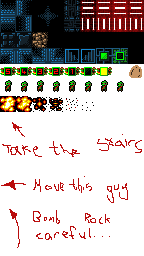
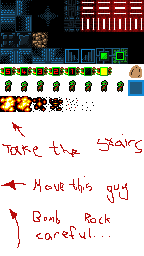
Add basic (buggy) pressure plate

Changed region(s): [[0.8889, 0.3125, 1.0, 0.375]]

diff --git a/src/tile.py b/src/tile.py
@@ -61,10 +61,10 @@ class Stateful(Tile):
        @self.images   = an array of pygame surfaces
        @self.triggers = The numeric id of the Triggerable
                         if there is one to be triggered"""
-    def __init__(self, x, y, width, height, solid, destructable, state, image, triggers=0):
+    def __init__(self, x, y, width, height, solid, destructable, state, image, images = graphics.sprites['switch']['sprites'], triggers=0):
         Tile.__init__(self, x, y, width, height, solid, destructable, image)
         self.state = state
-        self.images = graphics.sprites['switch']['sprites']
+        self.images = images
         self.triggers = triggers
 
     def update(self):
@@ -72,12 +72,27 @@ class Stateful(Tile):
 
     def change_state(self):
         if self.state:
-            self.image = self.images[0]
-            self.state = 0
+            self.turn_off()
         elif not self.state:
-            self.image = self.images[1]
-            self.state = 1
+            self.turn_on()
 
+    def turn_on(self):
+        self.image = self.images[1]
+        self.state = 1
+
+    def turn_off(self):
+        self.image = self.images[0]
+        self.state = 0
+
+    def handle_collision(self, player, level):
+        for _tile in level.tiled_level.sprites:
+            # TODO - rather than check every instance of the things we care about,
+            # we should just be able to grab anything from the object layer (and the player)
+            if isinstance(_tile, MoveableTile):
+                if pygame.sprite.collide_rect(self, _tile):
+                    self.turn_on()
+                else:
+                    self.turn_off()
 
 class Triggerable(Tile):
     """A Triggerable class is linked to the stateful class. It takes a Stateful
@@ -98,7 +113,7 @@ class Triggerable(Tile):
     def __init__(self,x, y, width, height, solid, destructable, stateful, image, id=0):
         Tile.__init__(self, x, y, width, height, solid, destructable, image)
         self.stateful = stateful
-        self.id = id
+        self.triggered_id = id
         self.images = graphics.sprites['laser']['sprites']
 
         self.laser_hum_sound = pygame.mixer.Sound('./data/audio/fx/laser-hum.ogg')

diff --git a/src/level_editor.py b/src/level_editor.py
@@ -65,6 +65,8 @@ class LevelData():
         solid = getattr(tile_object, 'solid', False)
         destructable = getattr(tile_object, 'destructable', False)
         lifespan = getattr(tile_object, 'lifespan', False)
+        triggers = getattr(tile_object, 'triggers', False)
+        triggered_id = getattr(tile_object, 'triggered_id', False)
 
         common = {
             'x': x,
@@ -104,19 +106,27 @@ class LevelData():
                 'destructable':destructable,
                 'moveable': moveable
             },
-            # 'stateful': {
-            #     **common,
-            #     'solid':tile_object.solid,
-            #     'destructable':destructable,
-            #     'state':0,
-            #     'triggers':tile_object.triggers,
-            # },
+            'stateful': {
+                **common,
+                'solid': solid,
+                'destructable':destructable,
+                'state': 0,
+                'triggers': triggers,
+            },
+            'pressure_plate': {
+                **common,
+                'solid': solid,
+                'destructable':destructable,
+                'state': 0,
+                'triggers': triggers,
+                'images': graphics.sprites['pressure_plate']['sprites']
+            },
             'triggerable': {
                 **common,
                 'solid': solid,
                 'destructable':destructable,
                 'stateful':'pass',
-                'id':tile_object.id
+                'id': triggered_id
             }
         }
 
@@ -129,7 +139,7 @@ class LevelData():
             if isinstance(state, tile.Stateful):
                 for trigger in self.sprites:
                     if isinstance(trigger, tile.Triggerable):
-                        if state.triggers == trigger.id:
+                        if state.triggers == trigger.triggered_id:
                             trigger.stateful = state
 
     def get_tile_all_layers(self, x, y):

diff --git a/src/tile_factory.py b/src/tile_factory.py
@@ -14,7 +14,11 @@ class TileFactory():
             'triggerable': Triggerable,
             'finish_tile': FinishTile,
             'moveable_tile': MoveableTile,
+
+            # stateful and pressure_plate only differ by the sprites they have.
+            # I thought this easier than making separate classes for both, we'll see.
             'stateful': Stateful,
+            'pressure_plate': Stateful,
             'bomb': Bomb,
             'actor': Actor,
             'tile': Tile,

diff --git a/src/graphics.py b/src/graphics.py
@@ -63,5 +63,14 @@ sprites = {
     'switch': {
         'sprites': [subsurf(grid(6, 3)),
                     subsurf(grid(7, 3))]
+    },
+    'pressure_plate': {
+        'sprites': [
+            # These are both the same surface for now
+            # I don't have an image for a pressure_plate in the 'on'
+            # position yet.
+            subsurf(grid(8, 5)),
+            subsurf(grid(8, 5)),
+        ]
     }
 }
